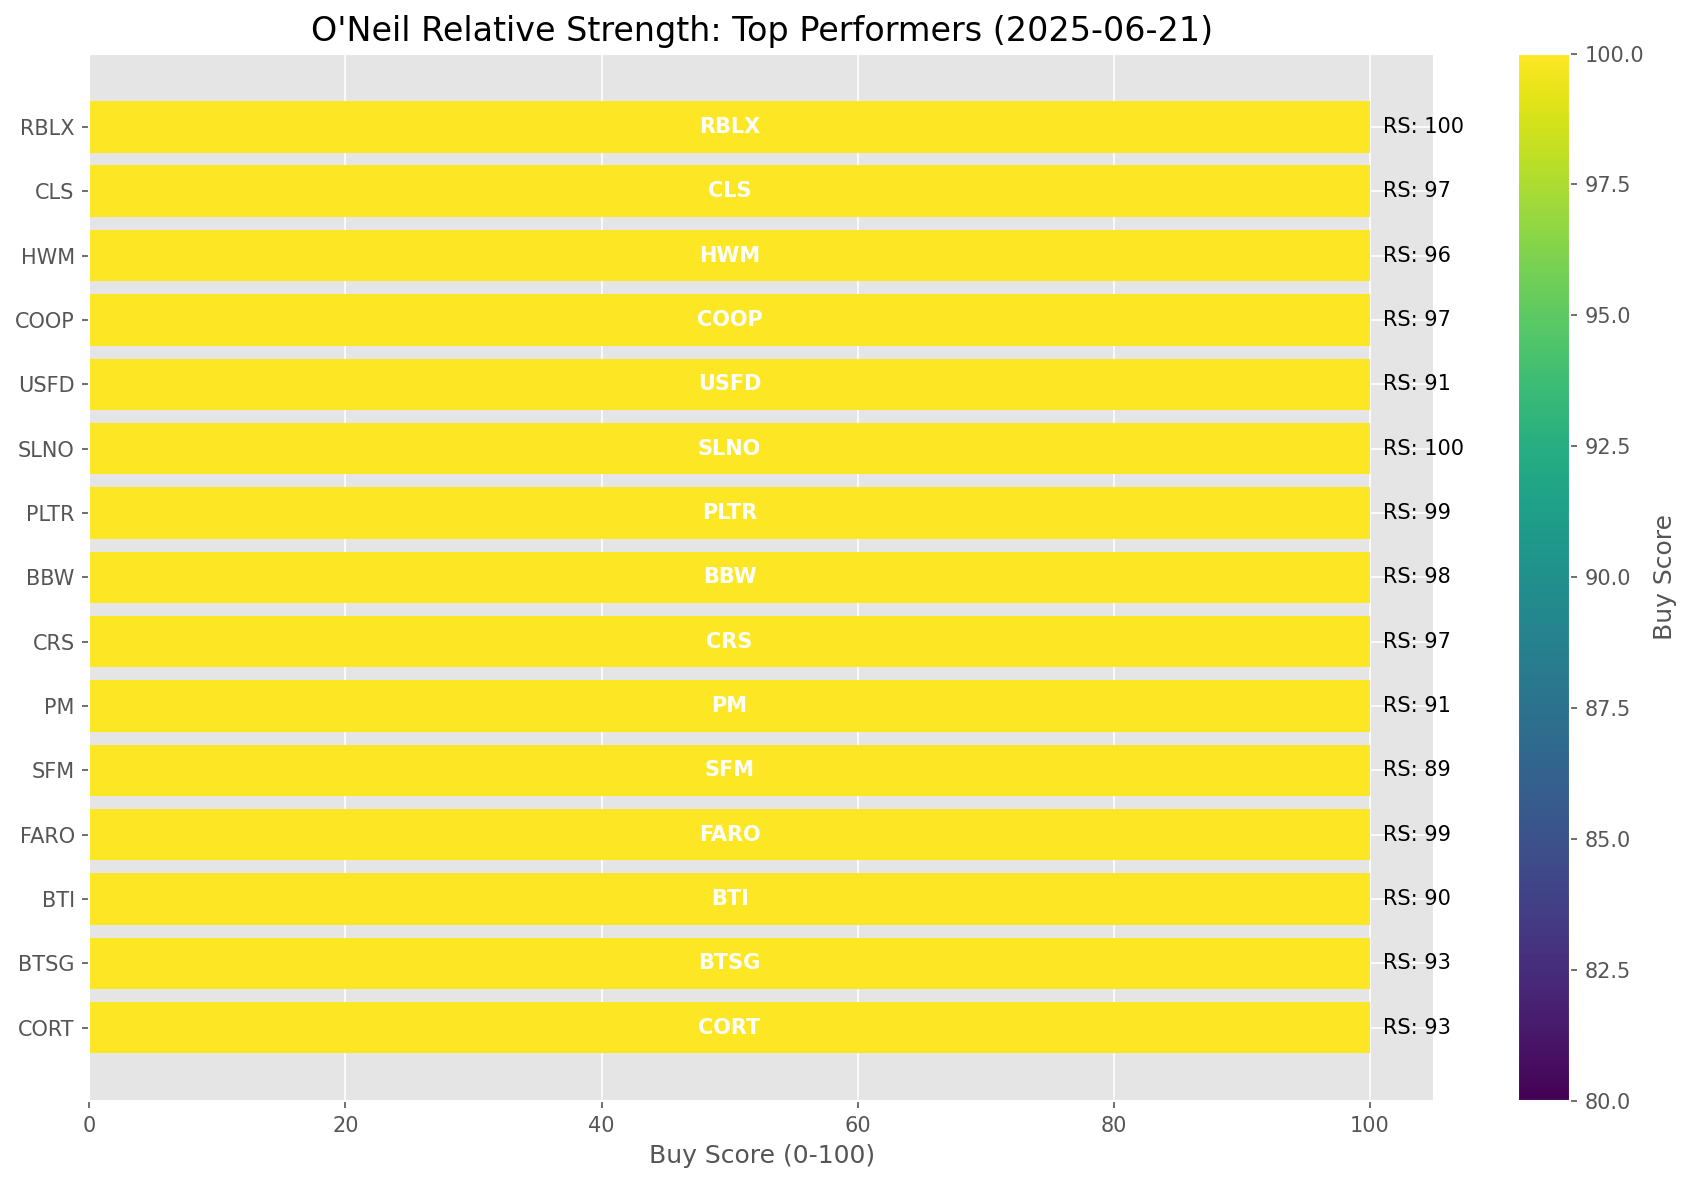
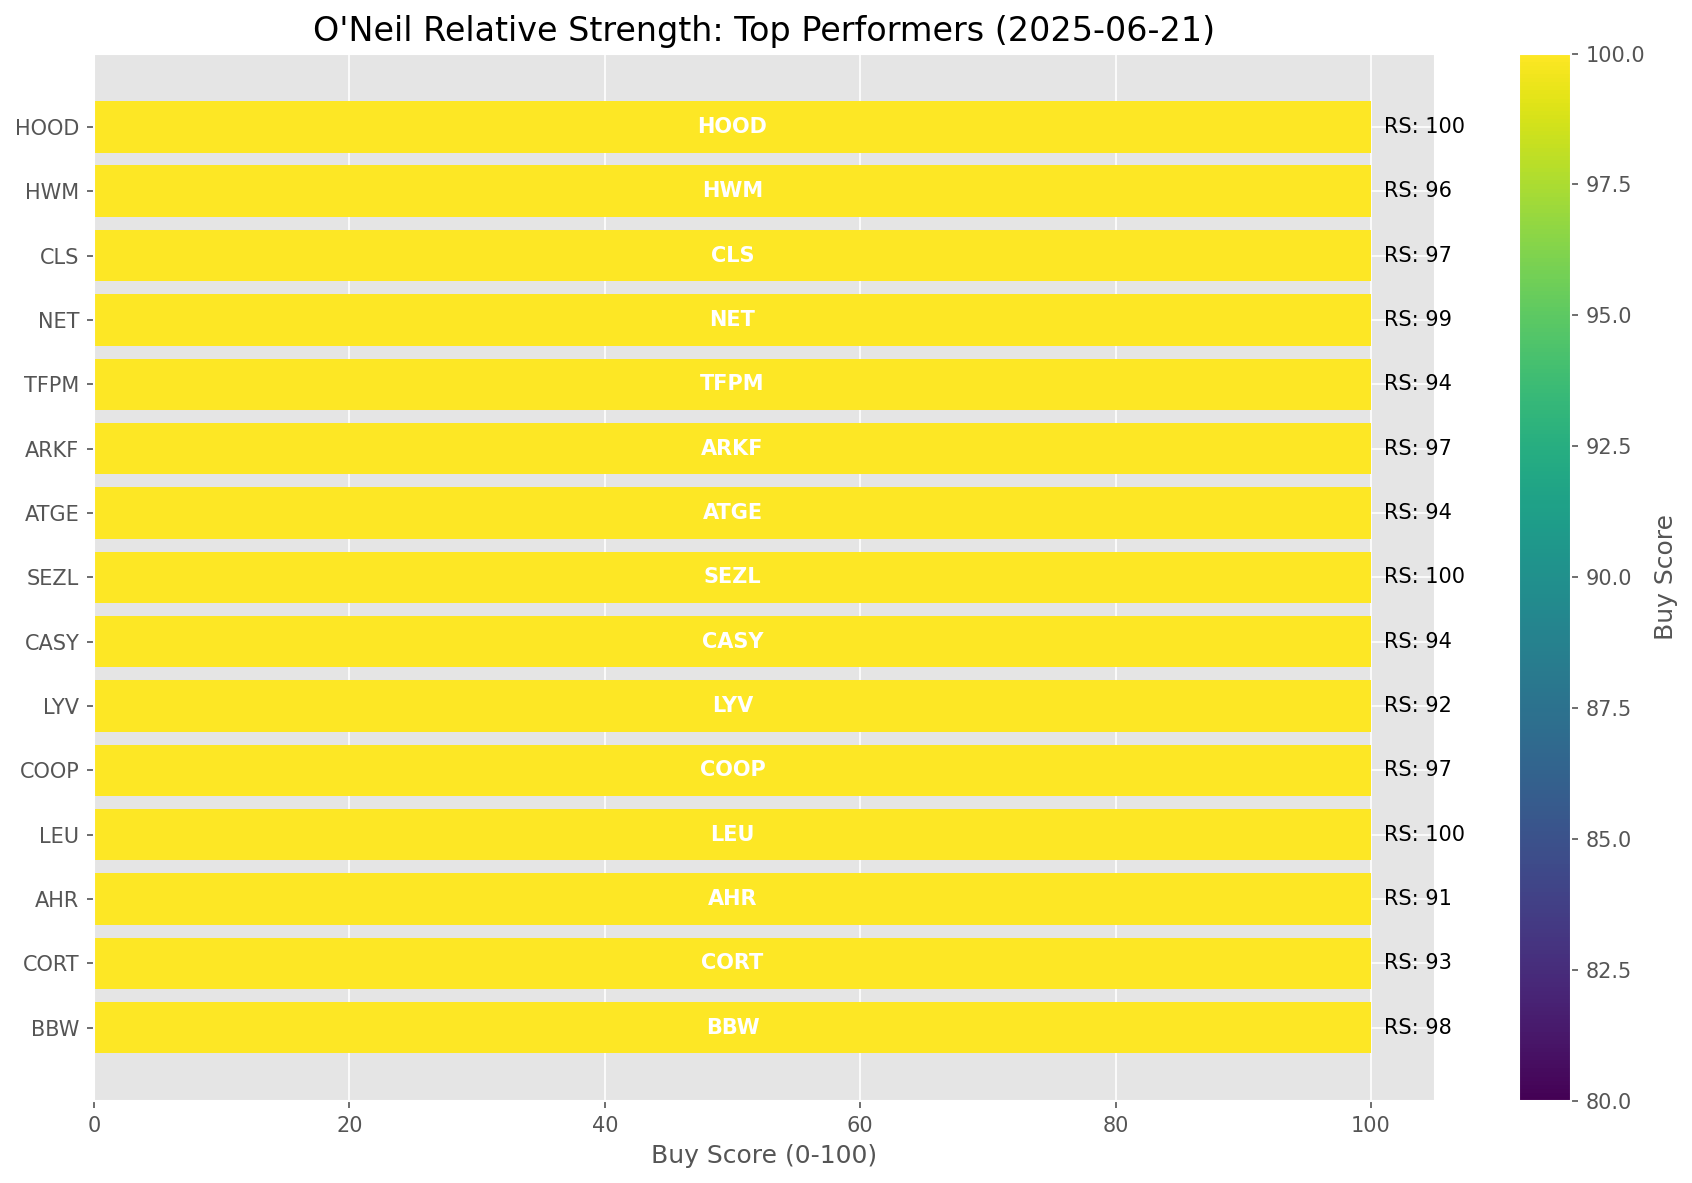
Add market report for 2025-06-21

diff --git a/oneil_relative_strength_report_2025-06-21.md b/oneil_relative_strength_report_2025-06-21.md
@@ -50,8 +50,8 @@ Based on William O'Neil's Relative Strength Methodology
 | ETF | Strength | RS Rating | Performance | Above Key MAs | Trend | Sector |
 |-----|----------|-----------|-------------|--------------|-------|--------|
 | [ARKW](https://www.tradingview.com/chart/?symbol=ARKW) | 99.0 | 98.0 | 44.30% | 10d ✓, 50d ✓, 200d ✓ | ↗ | Next Generation Internet |
-| [ARKK](https://www.tradingview.com/chart/?symbol=ARKK) | 98.5 | 97.0 | 35.41% | 10d ✓, 50d ✓, 200d ✓ | ↗ | Innovation |
 | [ARKF](https://www.tradingview.com/chart/?symbol=ARKF) | 98.5 | 97.0 | 35.27% | 10d ✓, 50d ✓, 200d ✓ | ↗ | Fintech Innovation |
+| [ARKK](https://www.tradingview.com/chart/?symbol=ARKK) | 98.5 | 97.0 | 35.41% | 10d ✓, 50d ✓, 200d ✓ | ↗ | Innovation |
 | [GLD](https://www.tradingview.com/chart/?symbol=GLD) | 89.5 | 79.0 | 10.46% | 10d ✓, 50d ✓, 200d ✓ | ↗ | Gold |
 | [BLOK](https://www.tradingview.com/chart/?symbol=BLOK) | 88.6 | 97.0 | 37.81% | 10d ✗, 50d ✓, 200d ✓ | ↗ | Blockchain & Cryptocurrency |
 | [CIBR](https://www.tradingview.com/chart/?symbol=CIBR) | 80.1 | 80.0 | 10.89% | 10d ✗, 50d ✓, 200d ✓ | ↗ | Cybersecurity |
@@ -59,8 +59,8 @@ Based on William O'Neil's Relative Strength Methodology
 | [URA](https://www.tradingview.com/chart/?symbol=URA) | 79.0 | 98.0 | 44.88% | 10d ✓, 50d ✓, 200d ✓ | ↘ | Uranium |
 | [PAVE](https://www.tradingview.com/chart/?symbol=PAVE) | 77.6 | 75.0 | 8.42% | 10d ✗, 50d ✓, 200d ✓ | ↗ | Infrastructure |
 | [SLV](https://www.tradingview.com/chart/?symbol=SLV) | 76.6 | 73.0 | 7.28% | 10d ✗, 50d ✓, 200d ✓ | ↗ | Silver |
-| [XLI](https://www.tradingview.com/chart/?symbol=XLI) | 76.6 | 73.0 | 7.08% | 10d ✗, 50d ✓, 200d ✓ | ↗ | Industrial |
 | [XLY](https://www.tradingview.com/chart/?symbol=XLY) | 76.6 | 73.0 | 7.09% | 10d ✗, 50d ✓, 200d ✓ | ↗ | Consumer Discretionary |
+| [XLI](https://www.tradingview.com/chart/?symbol=XLI) | 76.6 | 73.0 | 7.08% | 10d ✗, 50d ✓, 200d ✓ | ↗ | Industrial |
 | [XLC](https://www.tradingview.com/chart/?symbol=XLC) | 75.6 | 71.0 | 6.20% | 10d ✗, 50d ✓, 200d ✓ | ↗ | Communications |
 | [IYZ](https://www.tradingview.com/chart/?symbol=IYZ) | 71.6 | 63.0 | 3.64% | 10d ✗, 50d ✓, 200d ✓ | ↗ | Telecommunications |
 | [SOXX](https://www.tradingview.com/chart/?symbol=SOXX) | 70.5 | 81.0 | 11.72% | 10d ✓, 50d ✓, 200d ✓ | ↘ | Semiconductors |
@@ -98,7 +98,7 @@ This table shows the relative strength metrics for different market sectors base
 
 ### **Current Sector Leadership**
 
-The current market leadership is coming from the following sectors: **Next Generation Internet, Innovation, Fintech Innovation**.
+The current market leadership is coming from the following sectors: **Next Generation Internet, Fintech Innovation, Innovation**.
 
 The **Next Generation Internet** sector (represented by **ARKW**) is showing particularly strong relative strength with an RS rating of 98.0 and performance of 44.30% vs. the S&P 500. This sector is trading above its 10-day, 50-day, 200-day moving average(s). Investors should consider focusing on high RS stocks within these leading sectors for potential outperformance.
 
@@ -110,66 +110,66 @@ The following 78 stocks show exceptional relative strength:
 
 | RS Rating | Buy Score | Current Price | Chart | Name | Ticker |
 |-----------|-----------|---------------|-------|------|--------|
+| 100 | 100 | $190.04 | [Chart](https://www.tradingview.com/chart/?symbol=LEU) | Centrus Energy Corp. | LEU |
+| 100 | 100 | $147.04 | [Chart](https://www.tradingview.com/chart/?symbol=SEZL) | Sezzle Inc. Common Stock | SEZL |
+| 100 | 100 | $78.50 | [Chart](https://www.tradingview.com/chart/?symbol=HOOD) | Robinhood Markets, Inc. Class A Common Stock | HOOD |
 | 100 | 100 | $79.98 | [Chart](https://www.tradingview.com/chart/?symbol=SLNO) | Soleno Therapeutics, Inc. Common Stock | SLNO |
 | 100 | 100 | $102.09 | [Chart](https://www.tradingview.com/chart/?symbol=RBLX) | Roblox Corporation | RBLX |
-| 100 | 100 | $190.04 | [Chart](https://www.tradingview.com/chart/?symbol=LEU) | Centrus Energy Corp. | LEU |
-| 100 | 100 | $78.50 | [Chart](https://www.tradingview.com/chart/?symbol=HOOD) | Robinhood Markets, Inc. Class A Common Stock | HOOD |
-| 100 | 100 | $147.04 | [Chart](https://www.tradingview.com/chart/?symbol=SEZL) | Sezzle Inc. Common Stock | SEZL |
-| 100 | 100 | $64.22 | [Chart](https://www.tradingview.com/chart/?symbol=HIMS) | Hims & Hers Health, Inc. | HIMS |
 | 100 | 100 | $319.89 | [Chart](https://www.tradingview.com/chart/?symbol=CVNA) | Carvana Co. | CVNA |
-| 99 | 100 | $43.72 | [Chart](https://www.tradingview.com/chart/?symbol=FARO) | Faro Technologies Inc | FARO |
-| 99 | 100 | $137.30 | [Chart](https://www.tradingview.com/chart/?symbol=PLTR) | Palantir Technologies Inc. Class A Common Stock | PLTR |
-| 99 | 100 | $30.50 | [Chart](https://www.tradingview.com/chart/?symbol=CRK) | Comstock Resources, Inc. | CRK |
+| 100 | 100 | $64.22 | [Chart](https://www.tradingview.com/chart/?symbol=HIMS) | Hims & Hers Health, Inc. | HIMS |
 | 99 | 100 | $179.30 | [Chart](https://www.tradingview.com/chart/?symbol=NET) | Cloudflare, Inc. Class A common stock, par value $0.001 per share | NET |
+| 99 | 100 | $30.50 | [Chart](https://www.tradingview.com/chart/?symbol=CRK) | Comstock Resources, Inc. | CRK |
+| 99 | 100 | $137.30 | [Chart](https://www.tradingview.com/chart/?symbol=PLTR) | Palantir Technologies Inc. Class A Common Stock | PLTR |
+| 99 | 100 | $43.72 | [Chart](https://www.tradingview.com/chart/?symbol=FARO) | Faro Technologies Inc | FARO |
 | 98 | 100 | $52.85 | [Chart](https://www.tradingview.com/chart/?symbol=BBW) | Build-A-Bear Workshop, Inc. | BBW |
 | 98 | 100 | $206.20 | [Chart](https://www.tradingview.com/chart/?symbol=JBL) | Jabil Inc. | JBL |
-| 98 | 100 | $37.74 | [Chart](https://www.tradingview.com/chart/?symbol=MP) | MP Materials Corp. | MP |
 | 98 | 100 | $486.96 | [Chart](https://www.tradingview.com/chart/?symbol=GEV) | GE Vernova Inc. | GEV |
-| 97 | 100 | $253.72 | [Chart](https://www.tradingview.com/chart/?symbol=CRS) | Carpenter Technology Corp | CRS |
+| 98 | 100 | $37.74 | [Chart](https://www.tradingview.com/chart/?symbol=MP) | MP Materials Corp. | MP |
 | 97 | 100 | $149.12 | [Chart](https://www.tradingview.com/chart/?symbol=COOP) | Mr. Cooper Group Inc. Common Stock | COOP |
+| 97 | 100 | $47.63 | [Chart](https://www.tradingview.com/chart/?symbol=ARKF) | ARK Fintech Innovation ETF | ARKF |
 | 97 | 100 | $135.23 | [Chart](https://www.tradingview.com/chart/?symbol=CLS) | Celestica, Inc. | CLS |
+| 97 | 100 | $253.72 | [Chart](https://www.tradingview.com/chart/?symbol=CRS) | Carpenter Technology Corp | CRS |
 | 97 | 100 | $43.11 | [Chart](https://www.tradingview.com/chart/?symbol=KTOS) | Kratos Defense & Security Solutions, Inc. | KTOS |
 | 97 | 100 | $288.66 | [Chart](https://www.tradingview.com/chart/?symbol=TLN) | Talen Energy Corporation Common Stock | TLN |
-| 97 | 100 | $47.63 | [Chart](https://www.tradingview.com/chart/?symbol=ARKF) | ARK Fintech Innovation ETF | ARKF |
 | 96 | 100 | $173.34 | [Chart](https://www.tradingview.com/chart/?symbol=HWM) | Howmet Aerospace Inc. | HWM |
 | 96 | 100 | $47.98 | [Chart](https://www.tradingview.com/chart/?symbol=AU) | AngloGold Ashanti plc | AU |
 | 96 | 100 | $32.18 | [Chart](https://www.tradingview.com/chart/?symbol=PRDO) | Perdoceo Education Corporation | PRDO |
 | 95 | 100 | $1231.41 | [Chart](https://www.tradingview.com/chart/?symbol=NFLX) | NetFlix Inc | NFLX |
-| 94 | 100 | $24.70 | [Chart](https://www.tradingview.com/chart/?symbol=TFPM) | Triple Flag Precious Metals Corp. | TFPM |
 | 94 | 100 | $500.27 | [Chart](https://www.tradingview.com/chart/?symbol=CASY) | Casey's General Stores Inc | CASY |
-| 94 | 100 | $272.39 | [Chart](https://www.tradingview.com/chart/?symbol=RCL) | Royal Caribbean Group | RCL |
 | 94 | 100 | $125.08 | [Chart](https://www.tradingview.com/chart/?symbol=ATGE) | Adtalem Global Education Inc. Common Shares | ATGE |
+| 94 | 100 | $24.70 | [Chart](https://www.tradingview.com/chart/?symbol=TFPM) | Triple Flag Precious Metals Corp. | TFPM |
+| 94 | 100 | $272.39 | [Chart](https://www.tradingview.com/chart/?symbol=RCL) | Royal Caribbean Group | RCL |
 | 93 | 100 | $71.38 | [Chart](https://www.tradingview.com/chart/?symbol=CORT) | Corcept Therapeutics Inc. | CORT |
-| 93 | 100 | $22.27 | [Chart](https://www.tradingview.com/chart/?symbol=BTSG) | BrightSpring Health Services, Inc. Common Stock | BTSG |
-| 93 | 100 | $59.99 | [Chart](https://www.tradingview.com/chart/?symbol=CAKE) | Cheesecake Factory (The) | CAKE |
 | 93 | 100 | $178.65 | [Chart](https://www.tradingview.com/chart/?symbol=EAT) | Brinker International, Inc. | EAT |
-| 93 | 100 | $41.73 | [Chart](https://www.tradingview.com/chart/?symbol=BBIO) | BridgeBio Pharma, Inc. Common Stock | BBIO |
 | 93 | 100 | $58.41 | [Chart](https://www.tradingview.com/chart/?symbol=SHLD) | Global X Defense Tech ETF | SHLD |
+| 93 | 100 | $41.73 | [Chart](https://www.tradingview.com/chart/?symbol=BBIO) | BridgeBio Pharma, Inc. Common Stock | BBIO |
+| 93 | 100 | $59.99 | [Chart](https://www.tradingview.com/chart/?symbol=CAKE) | Cheesecake Factory (The) | CAKE |
+| 93 | 100 | $22.27 | [Chart](https://www.tradingview.com/chart/?symbol=BTSG) | BrightSpring Health Services, Inc. Common Stock | BTSG |
 | 92 | 100 | $148.87 | [Chart](https://www.tradingview.com/chart/?symbol=LYV) | Live Nation Entertainment Inc. | LYV |
 | 92 | 100 | $163.40 | [Chart](https://www.tradingview.com/chart/?symbol=CAH) | Cardinal Health, Inc. | CAH |
-| 91 | 100 | $183.29 | [Chart](https://www.tradingview.com/chart/?symbol=PM) | Philip Morris International Inc. | PM |
-| 91 | 100 | $76.39 | [Chart](https://www.tradingview.com/chart/?symbol=USFD) | US Foods Holding Corp. | USFD |
 | 91 | 100 | $35.87 | [Chart](https://www.tradingview.com/chart/?symbol=AHR) | American Healthcare REIT, Inc. | AHR |
+| 91 | 100 | $76.39 | [Chart](https://www.tradingview.com/chart/?symbol=USFD) | US Foods Holding Corp. | USFD |
+| 91 | 100 | $183.29 | [Chart](https://www.tradingview.com/chart/?symbol=PM) | Philip Morris International Inc. | PM |
+| 90 | 100 | $79.82 | [Chart](https://www.tradingview.com/chart/?symbol=LLYVK) | Liberty Media Corporation Series C Liberty Live Common Stock | LLYVK |
 | 90 | 100 | $49.00 | [Chart](https://www.tradingview.com/chart/?symbol=BTI) | British American Tobacco p.l.c. American Depositary Shares, American Depositary Shares, each representing one Ordinary Share | BTI |
 | 90 | 100 | $73.72 | [Chart](https://www.tradingview.com/chart/?symbol=CTVA) | Corteva, Inc. Common Stock | CTVA |
-| 90 | 100 | $79.82 | [Chart](https://www.tradingview.com/chart/?symbol=LLYVK) | Liberty Media Corporation Series C Liberty Live Common Stock | LLYVK |
-| 89 | 100 | $165.96 | [Chart](https://www.tradingview.com/chart/?symbol=SFM) | Sprouts Farmers Market, Inc. | SFM |
 | 89 | 100 | $103.46 | [Chart](https://www.tradingview.com/chart/?symbol=FWONK) | Liberty Media Corporation Series C Liberty Formula One Common Stock | FWONK |
+| 89 | 100 | $165.96 | [Chart](https://www.tradingview.com/chart/?symbol=SFM) | Sprouts Farmers Market, Inc. | SFM |
 | 88 | 100 | $174.96 | [Chart](https://www.tradingview.com/chart/?symbol=TKO) | TKO Group Holdings, Inc. | TKO |
 | 87 | 100 | $73.75 | [Chart](https://www.tradingview.com/chart/?symbol=WRB) | W.R. Berkley Corporation | WRB |
-| 87 | 100 | $22.48 | [Chart](https://www.tradingview.com/chart/?symbol=LAUR) | Laureate Education, Inc. Common Stock | LAUR |
 | 87 | 100 | $280.97 | [Chart](https://www.tradingview.com/chart/?symbol=IBM) | International Business Machines Corporation | IBM |
+| 87 | 100 | $22.48 | [Chart](https://www.tradingview.com/chart/?symbol=LAUR) | Laureate Education, Inc. Common Stock | LAUR |
 | 88 | 99 | $180.44 | [Chart](https://www.tradingview.com/chart/?symbol=ITA) | iShares U.S. Aerospace & Defense ETF | ITA |
 | 87 | 99 | $84.33 | [Chart](https://www.tradingview.com/chart/?symbol=TPR) | Tapestry, Inc. Common Stock | TPR |
-| 85 | 99 | $25.40 | [Chart](https://www.tradingview.com/chart/?symbol=SRAD) | Sportradar Group AG Class A Ordinary Shares | SRAD |
 | 85 | 99 | $238.37 | [Chart](https://www.tradingview.com/chart/?symbol=TTWO) | Take-Two Interactive Software Inc | TTWO |
+| 85 | 99 | $25.40 | [Chart](https://www.tradingview.com/chart/?symbol=SRAD) | Sportradar Group AG Class A Ordinary Shares | SRAD |
 | 87 | 98 | $179.35 | [Chart](https://www.tradingview.com/chart/?symbol=RGLD) | Royal Gold Inc | RGLD |
 | 85 | 98 | $220.46 | [Chart](https://www.tradingview.com/chart/?symbol=DASH) | DoorDash, Inc. Class A Common Stock | DASH |
 | 84 | 98 | $225.78 | [Chart](https://www.tradingview.com/chart/?symbol=DRI) | Darden Restaurants, Inc. | DRI |
 | 87 | 97 | $121.82 | [Chart](https://www.tradingview.com/chart/?symbol=OLLI) | Ollie's Bargain Outlet Holdings, Inc. Common Stock | OLLI |
 | 86 | 97 | $275.00 | [Chart](https://www.tradingview.com/chart/?symbol=JPM) | JPMorgan Chase & Co. | JPM |
-| 86 | 96 | $89.85 | [Chart](https://www.tradingview.com/chart/?symbol=SANM) | Sanmina  Corp | SANM |
 | 86 | 96 | $171.86 | [Chart](https://www.tradingview.com/chart/?symbol=NTRA) | Natera, Inc. Common Stock | NTRA |
+| 86 | 96 | $89.85 | [Chart](https://www.tradingview.com/chart/?symbol=SANM) | Sanmina  Corp | SANM |
 | 83 | 96 | $42.52 | [Chart](https://www.tradingview.com/chart/?symbol=VIRT) | Virtu Financial, Inc. Class A | VIRT |
 | 85 | 95 | $49.23 | [Chart](https://www.tradingview.com/chart/?symbol=INOD) | Innodata Inc. | INOD |
 | 84 | 95 | $218.43 | [Chart](https://www.tradingview.com/chart/?symbol=BAP) | Credicorp LTD | BAP |
@@ -178,12 +178,12 @@ The following 78 stocks show exceptional relative strength:
 | 84 | 94 | $89.21 | [Chart](https://www.tradingview.com/chart/?symbol=SCHW) | The Charles Schwab Corporation | SCHW |
 | 82 | 94 | $96.12 | [Chart](https://www.tradingview.com/chart/?symbol=WMT) | Walmart Inc. | WMT |
 | 81 | 94 | $71.97 | [Chart](https://www.tradingview.com/chart/?symbol=KR) | The Kroger Co. | KR |
-| 83 | 93 | $58.30 | [Chart](https://www.tradingview.com/chart/?symbol=EPR) | EPR Properties | EPR |
 | 83 | 93 | $76.41 | [Chart](https://www.tradingview.com/chart/?symbol=BYD) | Boyd Gaming Corporation | BYD |
-| 80 | 93 | $32.10 | [Chart](https://www.tradingview.com/chart/?symbol=SGOL) | abrdn Physical Gold Shares ETF | SGOL |
-| 80 | 93 | $66.66 | [Chart](https://www.tradingview.com/chart/?symbol=GLDM) | SPDR Gold MiniShares | GLDM |
+| 83 | 93 | $58.30 | [Chart](https://www.tradingview.com/chart/?symbol=EPR) | EPR Properties | EPR |
 | 80 | 93 | $32.44 | [Chart](https://www.tradingview.com/chart/?symbol=OUNZ) | VanEck Merk Gold ETF | OUNZ |
+| 80 | 93 | $32.10 | [Chart](https://www.tradingview.com/chart/?symbol=SGOL) | abrdn Physical Gold Shares ETF | SGOL |
 | 80 | 93 | $33.25 | [Chart](https://www.tradingview.com/chart/?symbol=AAAU) | Goldman Sachs Physical Gold ETF Shares | AAAU |
+| 80 | 93 | $66.66 | [Chart](https://www.tradingview.com/chart/?symbol=GLDM) | SPDR Gold MiniShares | GLDM |
 | 80 | 92 | $33.57 | [Chart](https://www.tradingview.com/chart/?symbol=IAUM) | iShares Gold Trust Micro | IAUM |
 | 80 | 92 | $188.59 | [Chart](https://www.tradingview.com/chart/?symbol=LOPE) | Grand Canyon Education, Inc | LOPE |
 | 81 | 91 | $261.88 | [Chart](https://www.tradingview.com/chart/?symbol=LH) | Labcorp Holdings Inc. | LH |
@@ -199,18 +199,18 @@ The following 54 stocks show deteriorating relative strength:
 | RS Rating | Sell Score | Current Price | Chart | Name | Ticker |
 |-----------|------------|---------------|-------|------|--------|
 | 1 | 100 | $31.56 | [Chart](https://www.tradingview.com/chart/?symbol=TECS) | Direxion Daily Technology Bear 3x Shares | TECS |
-| 1 | 100 | $14.30 | [Chart](https://www.tradingview.com/chart/?symbol=EWTX) | Edgewise Therapeutics, Inc. Common Stock | EWTX |
 | 1 | 100 | $26.73 | [Chart](https://www.tradingview.com/chart/?symbol=HELE) | Helen Of Troy Ltd | HELE |
+| 1 | 100 | $14.30 | [Chart](https://www.tradingview.com/chart/?symbol=EWTX) | Edgewise Therapeutics, Inc. Common Stock | EWTX |
 | 1 | 100 | $16.70 | [Chart](https://www.tradingview.com/chart/?symbol=NVDS) | Investment Managers Series Trust II Tradr 1.5X Short NVDA Daily ETF | NVDS |
 | 1 | 100 | $14.93 | [Chart](https://www.tradingview.com/chart/?symbol=ZVZZT) | SUPER Montage TEST SYMBOL | ZVZZT |
 | 2 | 100 | $13.89 | [Chart](https://www.tradingview.com/chart/?symbol=DQ) | Daqo New Energy Corp. American Depositary Shares (each representing 5 Ordinary Shares) | DQ |
-| 3 | 100 | $20.98 | [Chart](https://www.tradingview.com/chart/?symbol=AMRK) | A-Mark Precious Metals, Inc. | AMRK |
 | 3 | 100 | $56.66 | [Chart](https://www.tradingview.com/chart/?symbol=ALB) | Albemarle Corporation | ALB |
+| 3 | 100 | $20.98 | [Chart](https://www.tradingview.com/chart/?symbol=AMRK) | A-Mark Precious Metals, Inc. | AMRK |
 | 4 | 100 | $44.76 | [Chart](https://www.tradingview.com/chart/?symbol=LINE) | Lineage, Inc. Common Stock | LINE |
-| 6 | 100 | $19.73 | [Chart](https://www.tradingview.com/chart/?symbol=SPT) | Sprout Social, Inc Class A Common Stock | SPT |
-| 6 | 100 | $20.47 | [Chart](https://www.tradingview.com/chart/?symbol=BITI) | ProShares Short Bitcoin ETF | BITI |
 | 6 | 100 | $16.69 | [Chart](https://www.tradingview.com/chart/?symbol=AMTB) | Amerant Bancorp Inc. | AMTB |
+| 6 | 100 | $19.73 | [Chart](https://www.tradingview.com/chart/?symbol=SPT) | Sprout Social, Inc Class A Common Stock | SPT |
 | 6 | 100 | $79.19 | [Chart](https://www.tradingview.com/chart/?symbol=LNTH) | Lantheus Holdings, Inc | LNTH |
+| 6 | 100 | $20.47 | [Chart](https://www.tradingview.com/chart/?symbol=BITI) | ProShares Short Bitcoin ETF | BITI |
 | 7 | 100 | $30.35 | [Chart](https://www.tradingview.com/chart/?symbol=FUN) | Six Flags Entertainment Corporation | FUN |
 | 9 | 100 | $20.29 | [Chart](https://www.tradingview.com/chart/?symbol=KIDS) | OrthoPediatrics Corp. Common Stock | KIDS |
 | 11 | 100 | $17.21 | [Chart](https://www.tradingview.com/chart/?symbol=ZTO) | ZTO Express (Cayman) Inc. American Depositary Shares, each representing one Class A ordinary share | ZTO |
